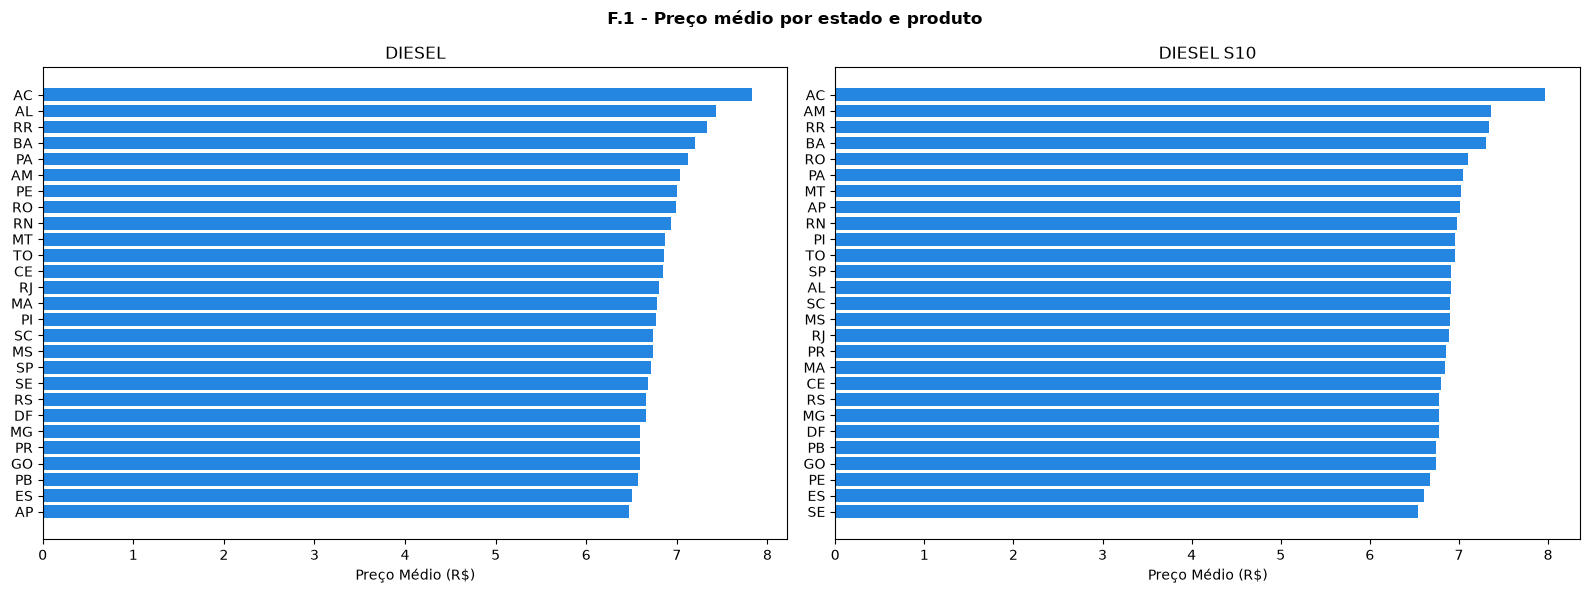
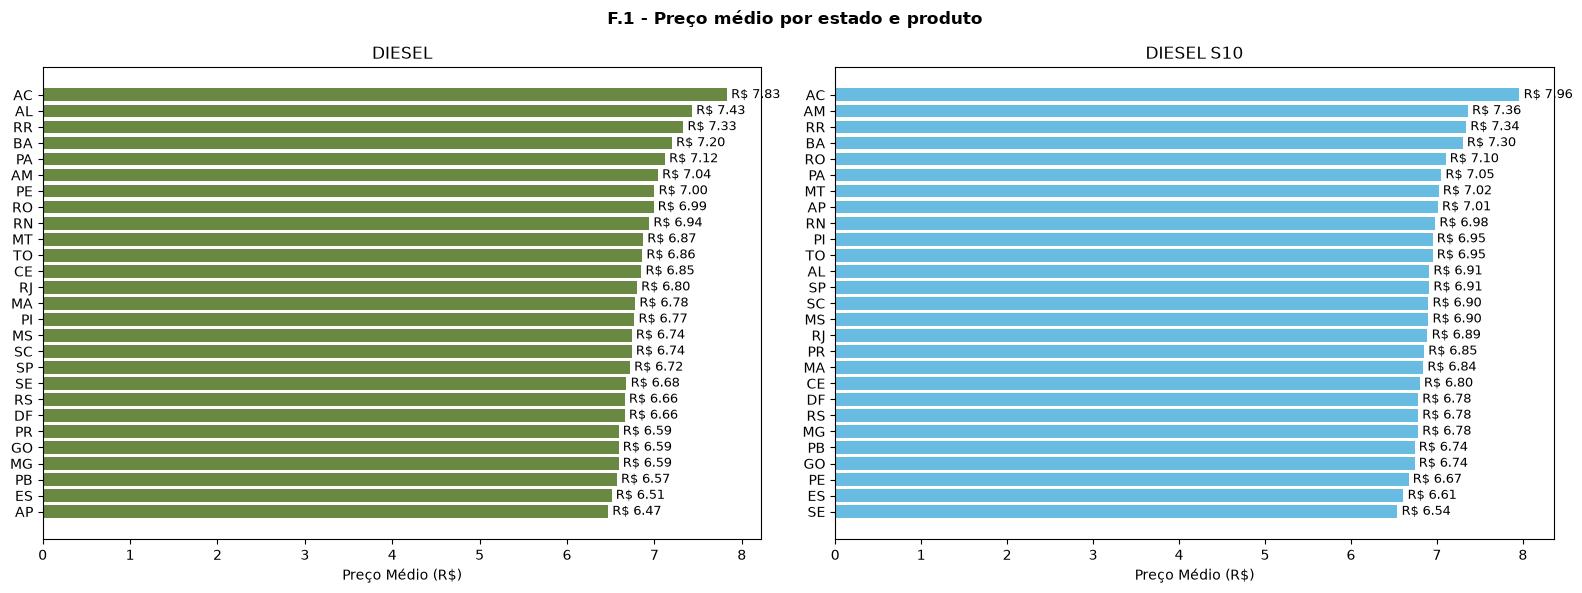
feat(gold): camada gold e gráficos estáticos
- sql/impala/03_gold: gold_variacao_mensal
- python/graficos: módulos por gráfico, __init__.py e remoção do graficos.py
- config.py, db.py e main.py ajustados para a nova estrutura
- gráficos F.1 e F.3 atualizados

diff --git a/python/graficos/grafico_f1.py b/python/graficos/grafico_f1.py
@@ -1,7 +1,7 @@
 import pandas as pd
 import matplotlib.pyplot as plt
 # import matplotlib.dates as mdates
-from config import OUTPUT_DIR, CORES
+from config import OUTPUT_DIR , CORES
 
 # Graficos de preços por estado
 def grafico_f1(df: pd.DataFrame):
@@ -15,9 +15,19 @@ def grafico_f1(df: pd.DataFrame):
         sub = df[df["produto"] == produto].sort_values("preco_medio", ascending=False)
         
         #Desenha barras horizontais:
-        ax.barh(range(len(sub)),                          # posições verticais (0, 1, 2, ...)
-                sub["preco_medio"],                       # largura de cada barra
-                color=CORES.get(produto, "#2486e0"))    # cor específica do produto (com fallback cinza)
+        bars = ax.barh(range(len(sub)),                          # posições verticais (0, 1, 2, ...)
+                sub["preco_medio"],                             # largura de cada barra
+                color=CORES.get(produto.lower(), "#68BCE2"))    # cor do produto
+        
+        # infoma ao lado da barra o valor em real
+        ax.bar_label(bars, fmt="R$ %.2f", padding=3, fontsize=9)
+        
+        # # informar o valor em percentual
+        # max_val = sub["preco_medio"].max()
+        # pcts = [f"{(v / max_val * 100):.2f}%" 
+                # for v in sub["preco_medio"]]
+        # ax.bar_label(bars, labels=pcts, padding=3, fontsize=9)
+        
         ax.set_yticks(range(len(sub)))
         ax.set_yticklabels(sub["estado"])
         

diff --git a/python/main.py b/python/main.py
@@ -2,13 +2,15 @@ from pathlib import Path
 from db import executar_query
 from graficos import grafico_f1, grafico_f2, grafico_f3
 
-SQL_DIR = Path(__file__).parent.parent / "sql" / "impala"
-
+# python/graficos/grafico_f1.py
+#/home/flrm/Projetos/combustivel-anp/sql/impala/consultas/f1_preco_medio_estado.sql
+SQL_DIR = Path(__file__).parent.parent / "sql" / "impala" / "consultas"
+#/home/flrm/Projetos/combustivel-anp/sql/impala/consultas/f1_preco_medio_estado.sql
 def ler_sql(nome:str)-> str:
     return (SQL_DIR / nome).read_text(encoding="utf-8")
 
 def main():
-# F.1
+    # F.1
     df1 =  executar_query("f1_preco_medio_estado")
     grafico_f1(df1)
 
@@ -23,10 +25,3 @@ def main():
     
 if __name__ == "__main__":
     main()
-
-     
-     
-     
-
- 
-

diff --git a/python/config.py b/python/config.py
@@ -2,8 +2,8 @@ from pathlib import Path
 
 # config de diretorios
 BASE_DIR = Path(__file__).resolve().parent.parent
-SQL_DIR = BASE_DIR / "sql" / "impala"
-OUTPUT_DIR = BASE_DIR /"docs"/"graficos"
+SQL_DIR = BASE_DIR / "sql" / "impala" / "consultas"
+OUTPUT_DIR = BASE_DIR /"docs"/"graficos" 
 OUTPUT_DIR.mkdir(parents=True, exist_ok=True)
 
 # Conexão com o Impala
@@ -12,8 +12,8 @@ IMPALA_PORT = 21050
 IMPALA_DB = "anp"
 
 CORES ={
-    "gasolina": "#580b03",
-    "etanol": "#27ae60",
-    "diesel": "#2980b9",
-    "GNV": "#b7f312",
+    "gasolina": "#8540A5",
+    "etanol": "#7088a3",
+    "diesel": "#63853cf6",
+    "gnv": "#f3a412",
 }

diff --git a/python/graficos/grafico_f3.py b/python/graficos/grafico_f3.py
@@ -13,7 +13,7 @@ def grafico_f3(df: pd.DataFrame):
         ax.plot(sub["mes"],
                 sub["preco_medio"],
                 marker="o",
-                color=CORES.get(produto, "#7f8c8d"),
+                color=CORES.get(produto.lower(), "#0a1afd"),
                 label=produto)
         
         ax.set_title(f"{produto} -  Preço Médio Mensal")

diff --git a/python/db.py b/python/db.py
@@ -1,5 +1,5 @@
 import pandas as pd
-from pathlib import Path
+# from pathlib import Path
 from impala.dbapi import connect
 from config import IMPALA_HOST, IMPALA_PORT, IMPALA_DB, SQL_DIR
 import warnings

diff --git a/python/graficos/__init__.py b/python/graficos/__init__.py
@@ -1,0 +1,3 @@
+from .grafico_f1 import grafico_f1
+from .grafico_f2 import grafico_f2
+from .grafico_f3 import grafico_f3
